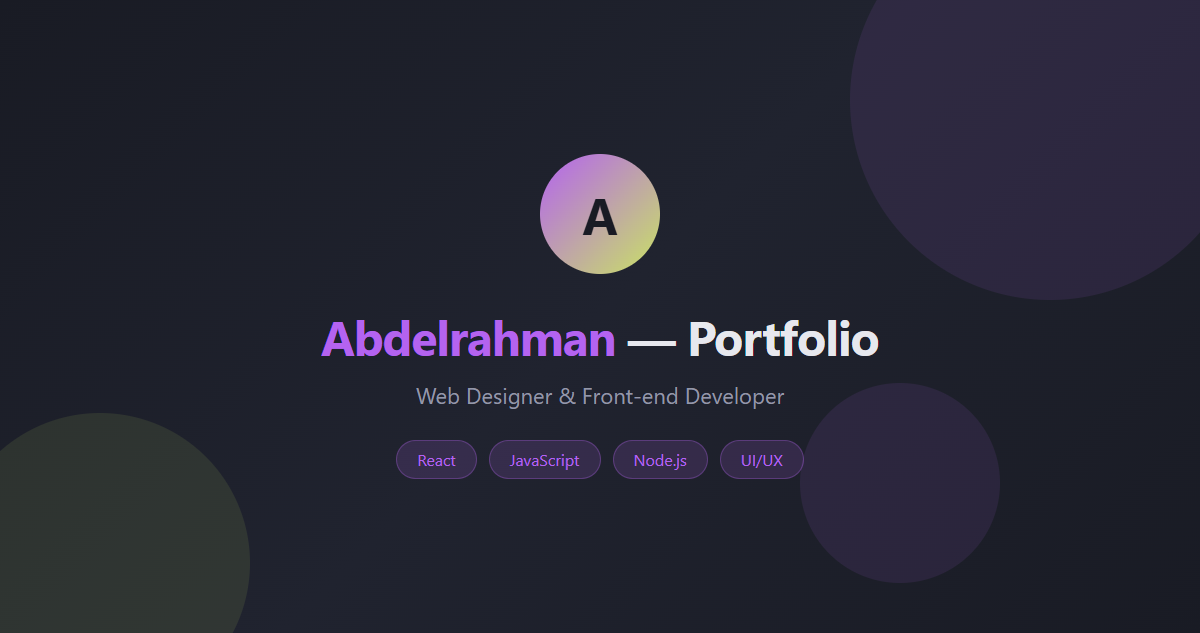
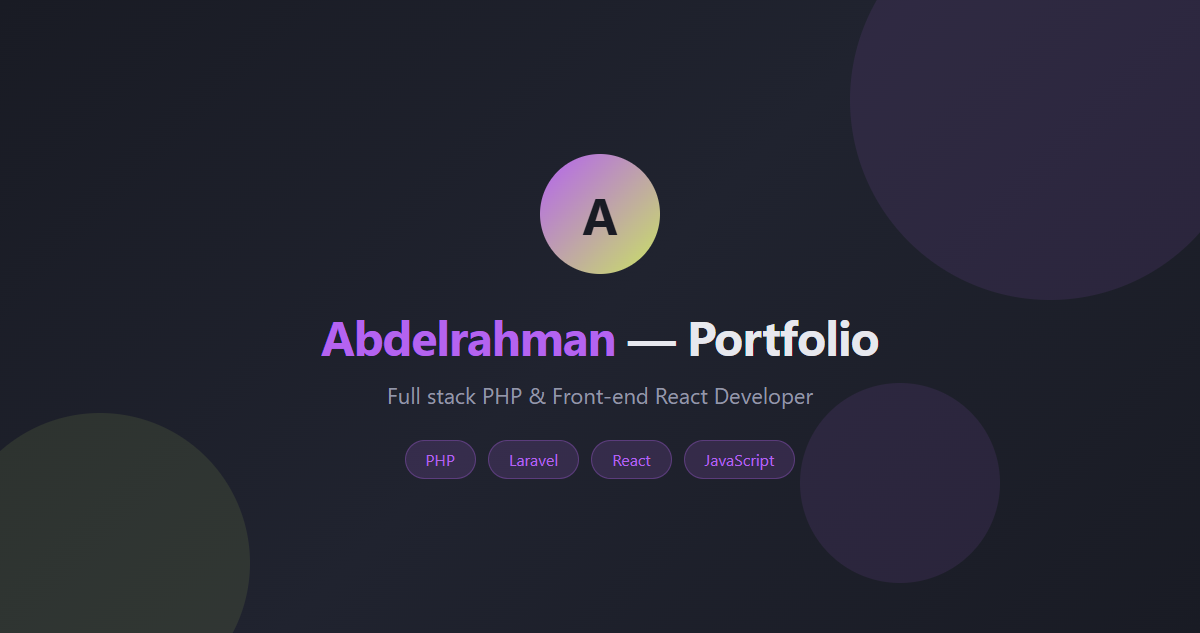
Update OG image and meta tags: Full stack PHP & Front React

Changed region(s): [[0.3083, 0.6904, 0.6783, 0.7804], [0.3083, 0.6003, 0.6783, 0.6603]]

diff --git a/og-image.html b/og-image.html
@@ -1,0 +1,86 @@
+<!DOCTYPE html>
+<html>
+<head>
+<style>
+* { margin: 0; padding: 0; box-sizing: border-box; }
+body {
+  width: 1200px;
+  height: 633px;
+  background: linear-gradient(135deg, #191b24 0%, #20232f 50%, #191b24 100%);
+  font-family: 'Segoe UI', Arial, sans-serif;
+  display: flex;
+  align-items: center;
+  justify-content: center;
+  overflow: hidden;
+  position: relative;
+}
+.bg-circle {
+  position: absolute;
+  border-radius: 50%;
+  opacity: 0.1;
+}
+.bg-circle.c1 { width: 400px; height: 400px; background: #b463f0; top: -100px; right: -50px; }
+.bg-circle.c2 { width: 300px; height: 300px; background: #c9e264; bottom: -80px; left: -50px; }
+.bg-circle.c3 { width: 200px; height: 200px; background: #b463f0; bottom: 50px; right: 200px; }
+.content {
+  text-align: center;
+  z-index: 1;
+  padding: 40px;
+}
+.avatar {
+  width: 120px;
+  height: 120px;
+  border-radius: 50%;
+  background: linear-gradient(135deg, #b463f0, #c9e264);
+  margin: 0 auto 30px;
+  display: flex;
+  align-items: center;
+  justify-content: center;
+  font-size: 50px;
+  color: #191b24;
+  font-weight: bold;
+}
+h1 {
+  color: #e7e8ee;
+  font-size: 48px;
+  margin-bottom: 12px;
+  letter-spacing: -1px;
+}
+h1 span { color: #b463f0; }
+p {
+  color: #9497a8;
+  font-size: 22px;
+  margin-bottom: 30px;
+}
+.tags {
+  display: flex;
+  gap: 12px;
+  justify-content: center;
+}
+.tag {
+  background: rgba(180, 99, 240, 0.15);
+  color: #b463f0;
+  padding: 8px 20px;
+  border-radius: 20px;
+  font-size: 16px;
+  border: 1px solid rgba(180, 99, 240, 0.3);
+}
+</style>
+</head>
+<body>
+  <div class="bg-circle c1"></div>
+  <div class="bg-circle c2"></div>
+  <div class="bg-circle c3"></div>
+  <div class="content">
+    <div class="avatar">A</div>
+    <h1><span>Abdelrahman</span> — Portfolio</h1>
+    <p>Full stack PHP & Front-end React Developer</p>
+    <div class="tags">
+      <span class="tag">PHP</span>
+      <span class="tag">Laravel</span>
+      <span class="tag">React</span>
+      <span class="tag">JavaScript</span>
+    </div>
+  </div>
+</body>
+</html>

diff --git a/index.html b/index.html
@@ -3,12 +3,12 @@
 <head>
   <meta charset="UTF-8">
   <meta name="viewport" content="width=device-width, initial-scale=1.0">
-  <title id="metaTitleEl">Abdelrahman — Web Designer & Front-end Developer</title>
-  <meta id="metaDescEl" name="description" content="Abdelrahman - Self-taught front-end developer crafting responsive websites where technologies meet creativity.">
-  <meta id="metaKeywordsEl" name="keywords" content="web designer, front-end developer, portfolio, React, Vue, JavaScript">
+  <title id="metaTitleEl">Abdelrahman — Full stack PHP & Front-end React Developer</title>
+  <meta id="metaDescEl" name="description" content="Abdelrahman - Full stack PHP & Front-end React Developer crafting responsive websites and web applications.">
+  <meta id="metaKeywordsEl" name="keywords" content="PHP, Laravel, React, JavaScript, full stack developer, front-end developer, portfolio">
   <meta name="author" content="Abdelrahman">
-  <meta id="ogTitleEl" property="og:title" content="Abdelrahman — Web Designer & Front-end Developer">
-  <meta id="ogDescEl" property="og:description" content="Crafting responsive websites where technologies meet creativity">
+  <meta id="ogTitleEl" property="og:title" content="Abdelrahman — Full stack PHP & Front-end React Developer">
+  <meta id="ogDescEl" property="og:description" content="Full stack PHP & Front-end React Developer crafting responsive websites and web applications">
   <meta property="og:type" content="website">
   <meta property="og:image" content="/og-image.png">
   <meta name="twitter:card" content="summary_large_image">

diff --git a/generate-og.js b/generate-og.js
@@ -1,0 +1,23 @@
+const puppeteer = require('puppeteer');
+const path = require('path');
+
+(async () => {
+  const browser = await puppeteer.launch({
+    headless: true,
+    executablePath: 'C:\\Program Files\\Google\\Chrome\\Application\\chrome.exe'
+  });
+  const page = await browser.newPage();
+  await page.setViewport({ width: 1200, height: 633 });
+  
+  const htmlPath = path.join(__dirname, 'og-image.html');
+  await page.goto('file:///' + htmlPath.replace(/\\/g, '/'), { waitUntil: 'networkidle0' });
+  
+  await page.screenshot({
+    path: path.join(__dirname, 'og-image.png'),
+    type: 'png',
+    clip: { x: 0, y: 0, width: 1200, height: 633 }
+  });
+  
+  await browser.close();
+  console.log('✅ og-image.png created!');
+})();
